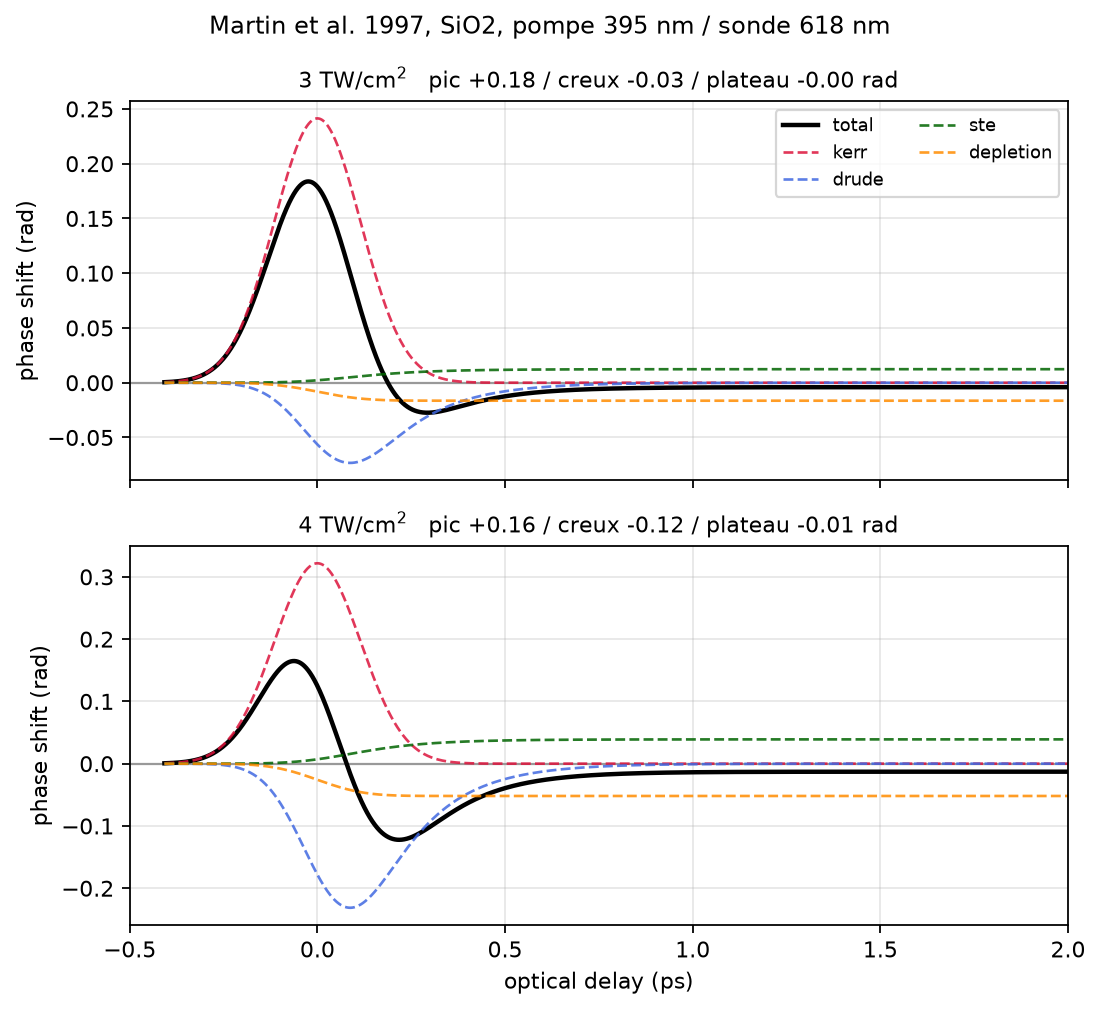
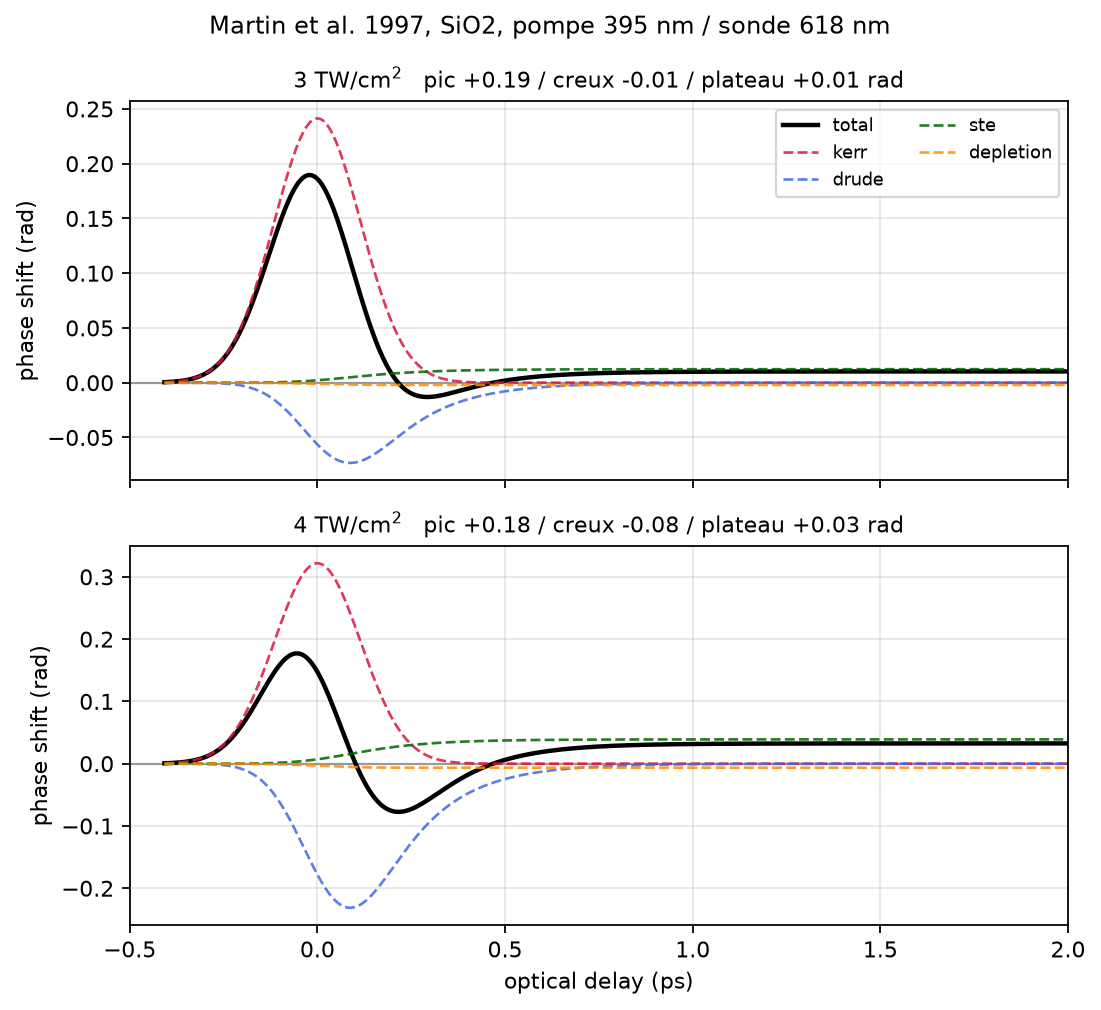
Deplation de valence : N0 est le nombre d'ELECTRONS, pas de molecules
Le run avec material="martin" sortait un plateau NEGATIF aux delais longs
(-0.032 rad), alors que la planche experimentale a +1.901 ps est franchement
positive (rouge sur toute la longueur du canal) et que la Fig. 6 de l'article
publie +0.03 et +0.15 rad.

Origine : N0 joue deux roles distincts sous le meme symbole.
  (a) densite de centres ionisables, dans le terme source N0 sigma_K F^K
      -> densite MOLECULAIRE, 2.2e22 cm^-3 pour SiO2 ;
  (b) nombre d'oscillateurs de valence, dans le facteur (N0 - N_CB - N_tr)
      -> nombre d'ELECTRONS portant la polarisabilite, 8 par SiO2.
Retirer un electron ote 1/N_oscillateurs de la polarisabilite : c'est (b) qui
compte pour la deplation. Prendre (a) surestimait ce terme d'un facteur 8.

MaterialResponse gagne n_valence_per_unit (defaut 8.0). La deplation utilise
N0 * n_valence_per_unit ; le terme source garde N0. Mettre 1.0 pour retrouver
le comportement precedent.

Le seuil de basculement du plateau est
    f_eff = (n0^2 - 1) rho_c / N_valence
soit 0.0271 au lieu de 0.2171 a 515 nm. Le f_eff des deux bandes STE vaut
0.1766 : le plateau redevient positif, avec de la marge. plateau_threshold_f()
expose ce seuil, parce que le SIGNE du plateau est un test tres sensible du
couple (forces d'oscillateur STE, densite d'oscillateurs) et qu'il se lit
directement sur une carte de phase a delai long.

Verification sur la Fig. 6, la ou la reponse est connue : le plateau passe de
[…]

diff --git a/.github/1630/sim/permittivity.py b/.github/1630/sim/permittivity.py
@@ -205,6 +205,19 @@ class MaterialResponse:
         default_factory=lambda: ((5.2, 0.40, 1.5), (4.2, 0.15, 1.0)))
     n2_m2W: float = 0.0                   # a renseigner par l'appelant
     enable_valence_depletion: bool = True
+    # Nombre d'electrons de valence par unite de formule. N0 joue DEUX roles
+    # distincts dans l'article, sous le meme symbole :
+    #   (a) densite de centres ionisables, dans le terme source N0 sigma_K F^K
+    #       -> c'est la densite MOLECULAIRE, 2.2e22 cm^-3 pour SiO2 ;
+    #   (b) nombre d'oscillateurs de valence, dans le facteur de deplation
+    #       (N0 - N_CB - N_tr) -> c'est le nombre d'ELECTRONS qui portent la
+    #       polarisabilite, soit 8 par SiO2 (4 liaisons Si-O a 2 electrons).
+    # Retirer UN electron ote 1/N_oscillateurs de la polarisabilite totale,
+    # donc c'est bien (b) qui compte pour la deplation. Prendre (a) surestime
+    # ce terme d'un facteur 8 et fait basculer le plateau des delais longs du
+    # positif au negatif -- en contradiction avec la Fig. 6 de l'article
+    # elle-meme. Mettre a 1.0 pour retrouver le comportement precedent.
+    n_valence_per_unit: float = 8.0
 
     def response(self, lambda_m, n0_lin, rho_e_cm3=0.0, rho_s_cm3=0.0,
                  I_Wcm2=0.0, xpm_factor=SPM, linearize=False,
@@ -242,8 +255,9 @@ class MaterialResponse:
         d_kerr = (kerr_delta_eps(I_Wcm2, n0_lin, self.n2_m2W, xpm_factor)
                   if "kerr" in include else zero)
         if "depletion" in include and self.enable_valence_depletion:
-            d_depl = valence_depletion_delta_eps(rho_e + rho_s, w,
-                                                 self.N0_cm3, eps_valence)
+            d_depl = valence_depletion_delta_eps(
+                rho_e + rho_s, w,
+                self.N0_cm3 * self.n_valence_per_unit, eps_valence)
         else:
             d_depl = zero
 
@@ -281,6 +295,24 @@ class MaterialResponse:
         w = omega_of_wavelength(lambda_m)
         d = lorentz_delta_eps(np.array([1.0]), w, self.ste_bands)
         return float(np.real(d)[0] / (_wp2(1.0, 1.0) / w**2))
+
+    def plateau_threshold_f(self, lambda_m, n0_lin):
+        """Force d'oscillateur STE effective au-dela de laquelle le plateau des
+        delais longs est POSITIF.
+
+        Quand la pompe est partie et que les porteurs libres ont recombine, il
+        ne reste que deux termes de signes opposes : les STE (+) et le retrait
+        des oscillateurs de valence (-). Leur egalite donne
+
+            f_eff = (n0^2 - 1) rho_c / N_valence
+
+        Le SIGNE du plateau est donc un test tres sensible du couple
+        (forces d'oscillateur STE, densite d'oscillateurs de valence) -- et il
+        se lit directement sur une carte de phase a delai long.
+        """
+        return ((float(n0_lin)**2 - 1.0)
+                * critical_density(lambda_m, 1.0)
+                / (self.N0_cm3 * self.n_valence_per_unit))
 
     def sigma_fca_cm2(self, lambda_m, n0_lin):
         """Section efficace d'absorption par porteur libre, en cm^2."""
